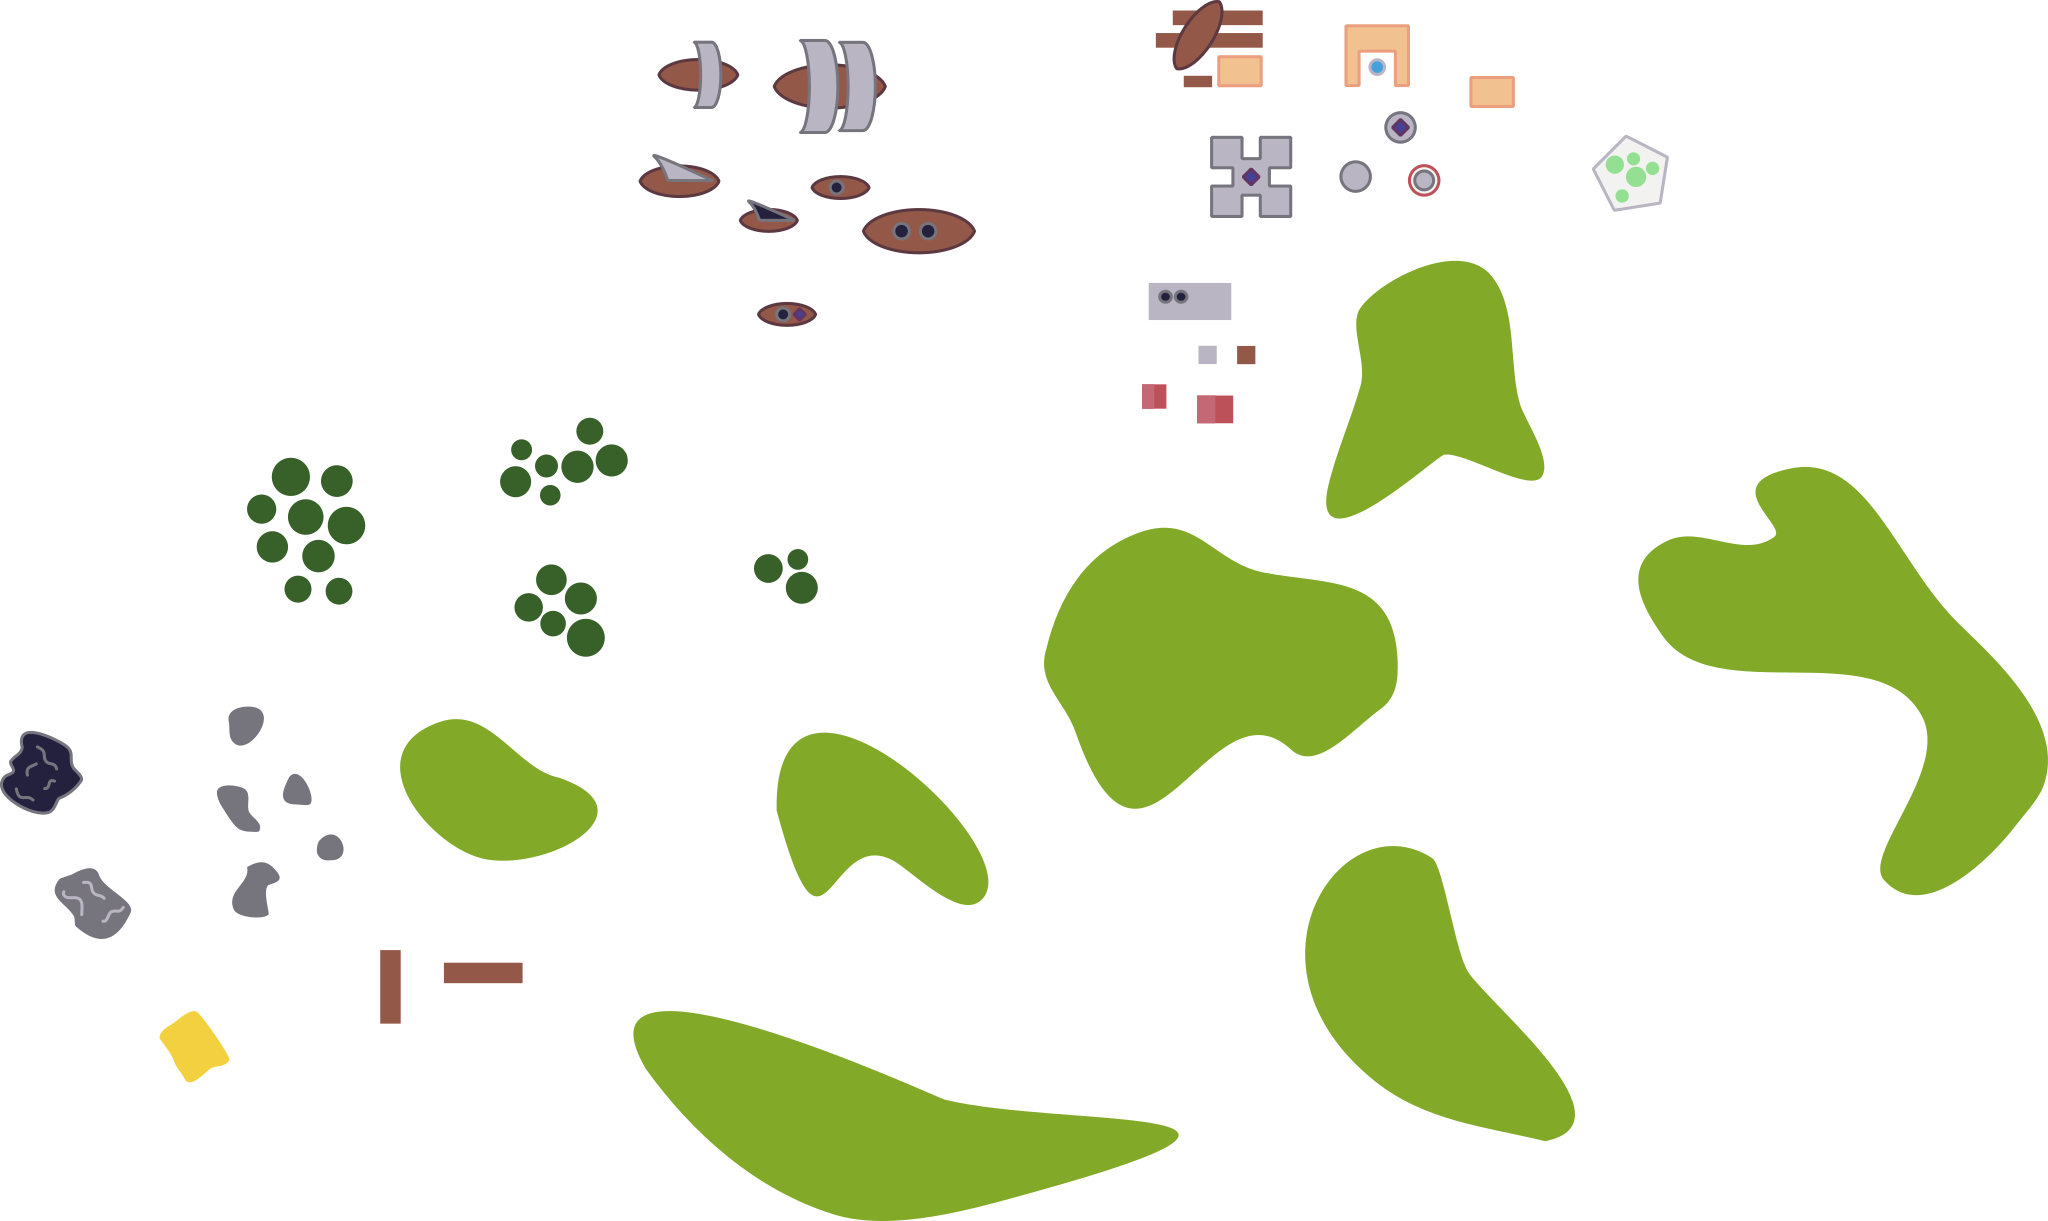
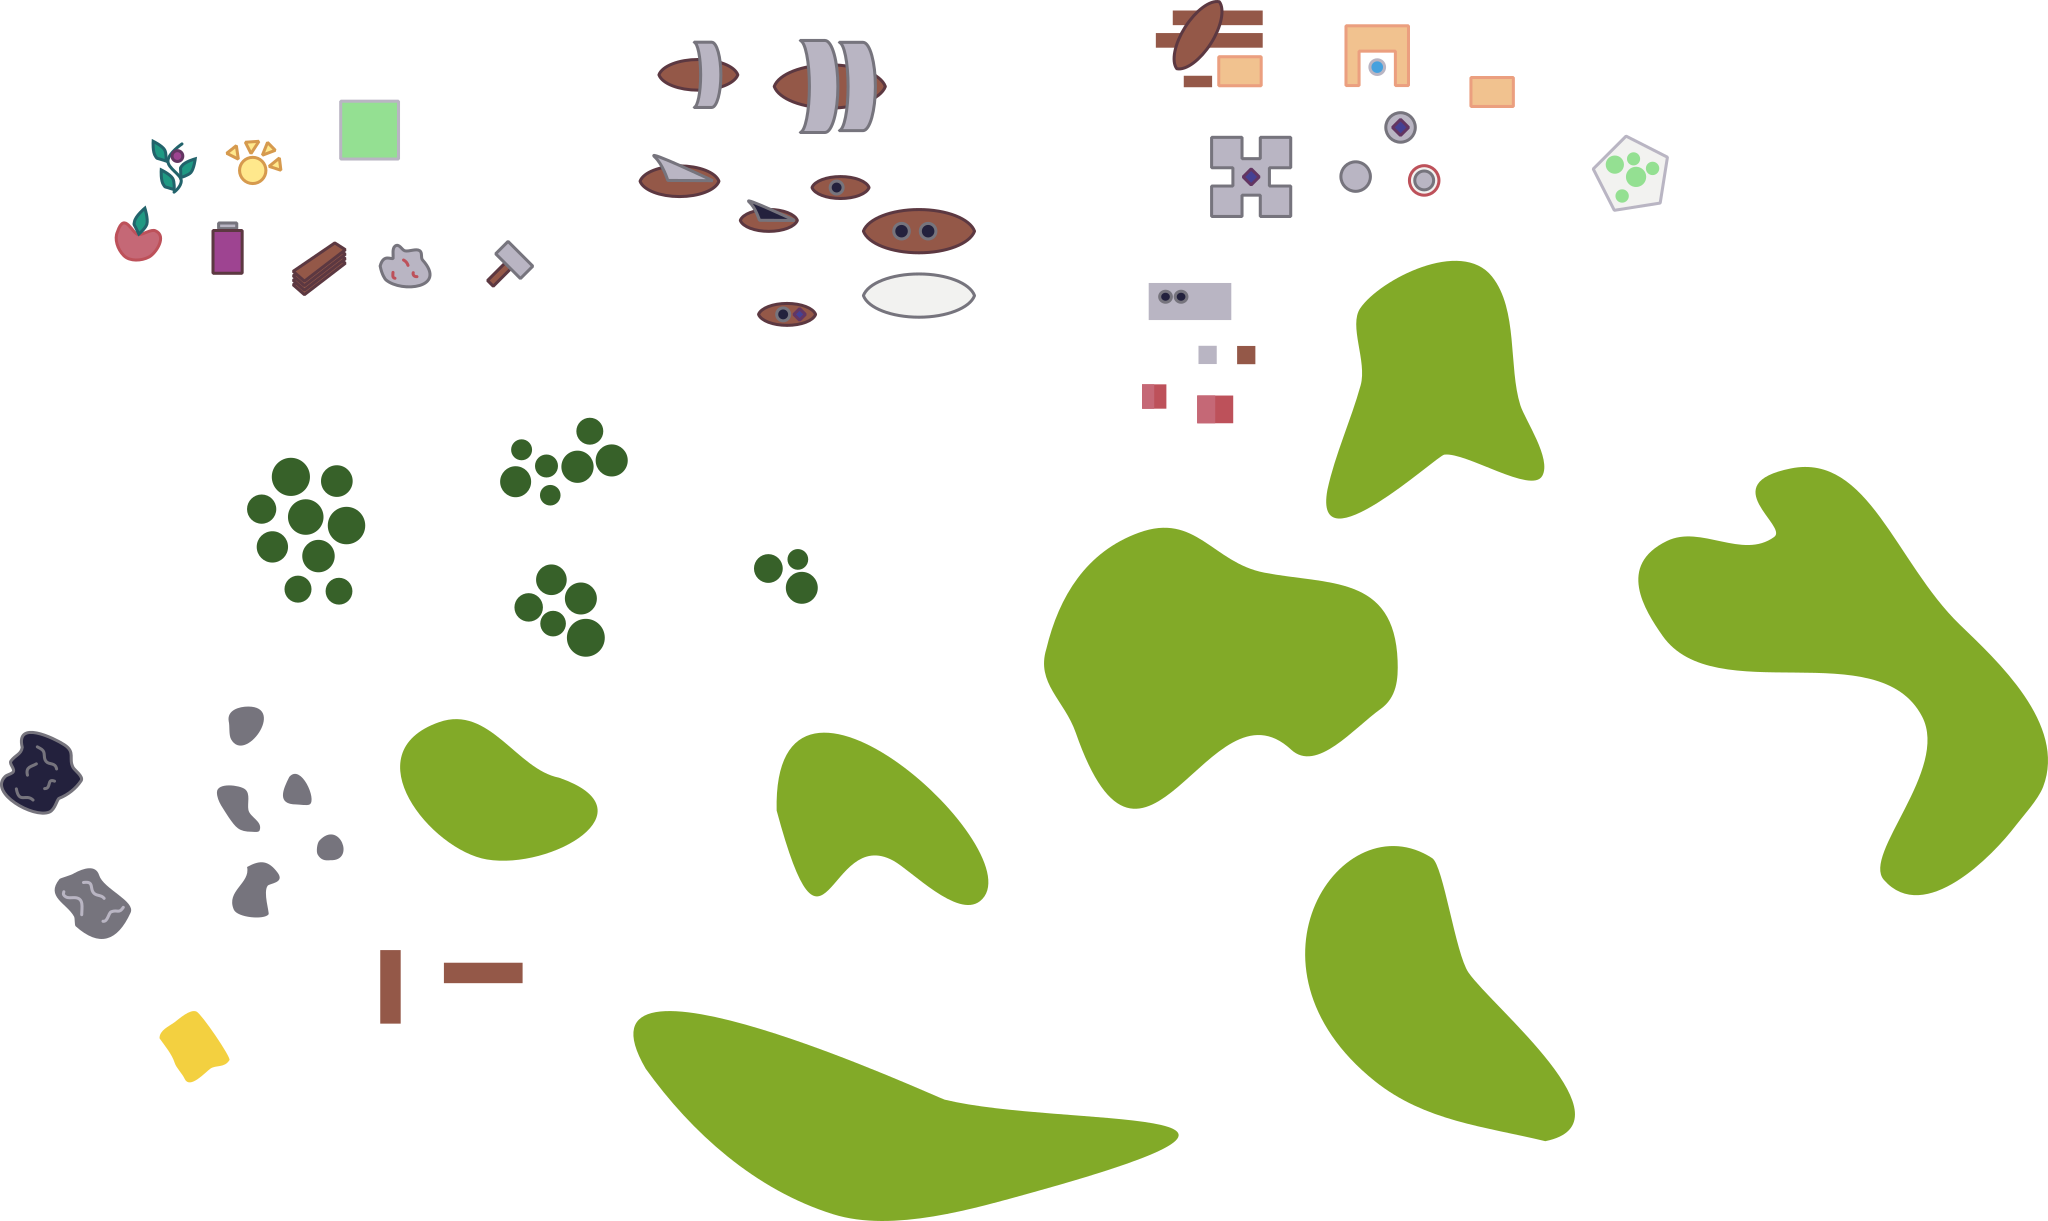
Added zeppelin

Changed region(s): [[0.0312, 0.0622, 0.2812, 0.249], [0.4375, 0.2179, 0.4688, 0.2801]]

diff --git a/script.js b/script.js
@@ -119,6 +119,19 @@ var shipType = {
         maxTackAngle: 0,
         cargoCapacity: 7
     },
+    Zeppelin: {
+        img: [862,272,114,47],
+        cost: 400,
+        motorSpeed: 0.13,
+        turnSpeed: 0.0016,
+        windDrift: 0.1,
+        sailSpeed: 0,
+        maxTackStrength: 0,
+        bestTackAngle: 0,
+        maxTackAngle: 0,
+        cargoCapacity: 5,
+        flying: true
+    },
 };
 
 var map = {};
@@ -442,7 +455,7 @@ function tick(ms) {
             playerShip.x += xWind(playerShip.x, playerShip.y) * shipType[playerShip.type].windDrift * ms;
             playerShip.y += yWind(playerShip.x, playerShip.y) * shipType[playerShip.type].windDrift * ms;
         }
-        if (map.collision.some(p => {
+        if (!shipType[playerShip.type].flying && map.collision.some(p => {
             return inside(playerShip.x, playerShip.y, p);
         })) {
             playerShip.x = oldX;
